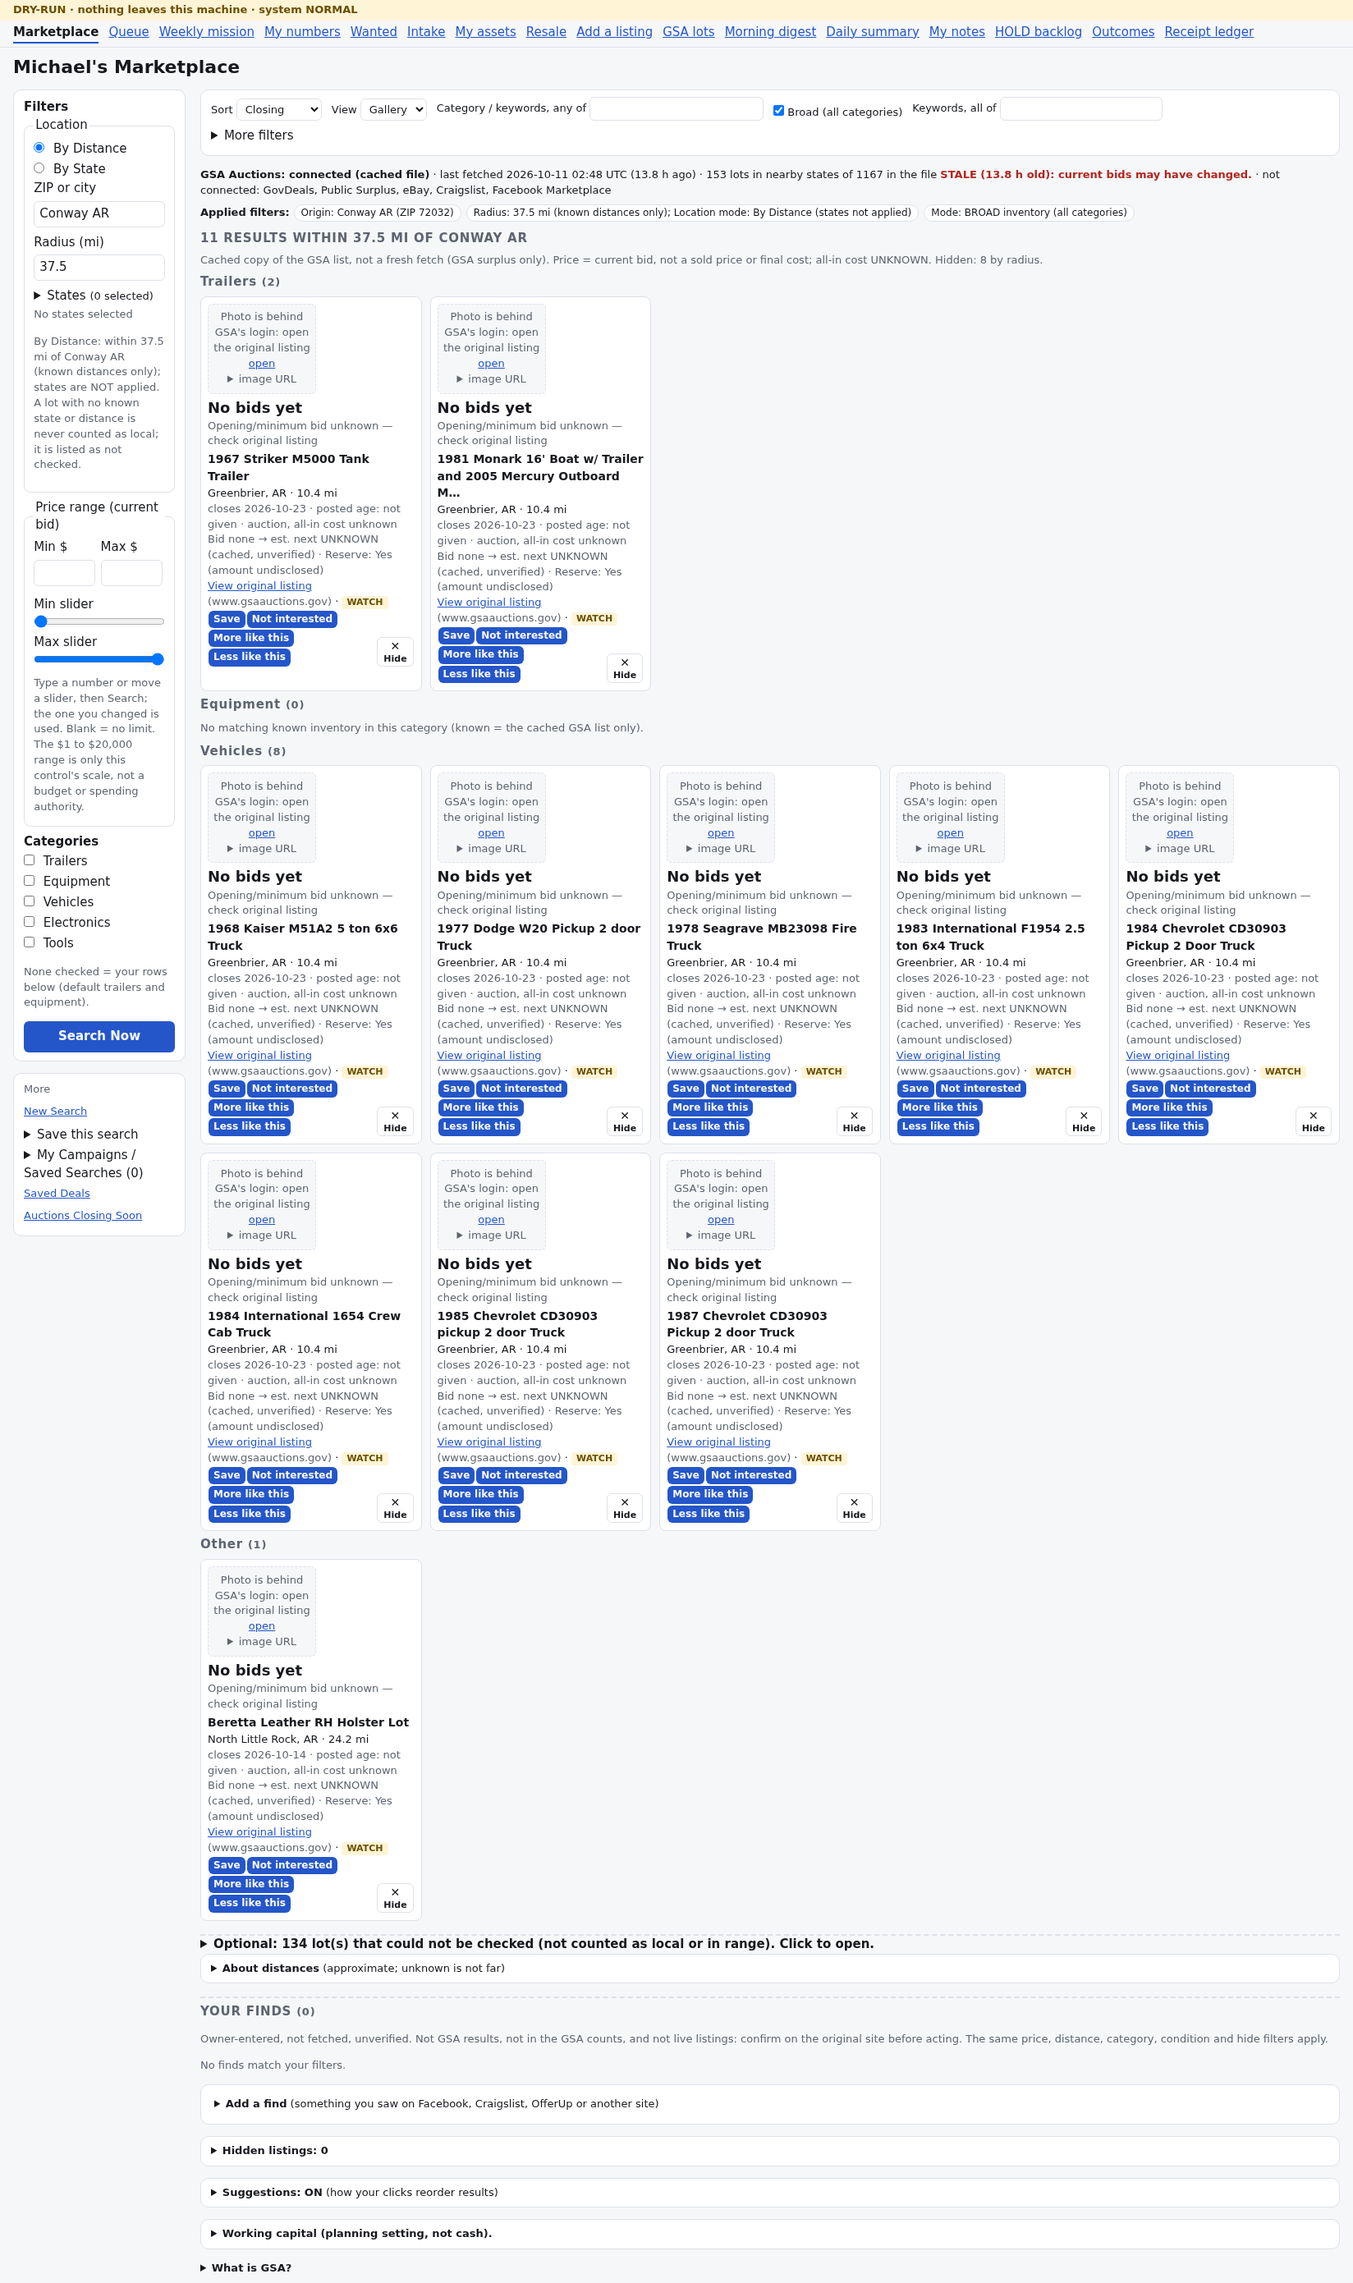
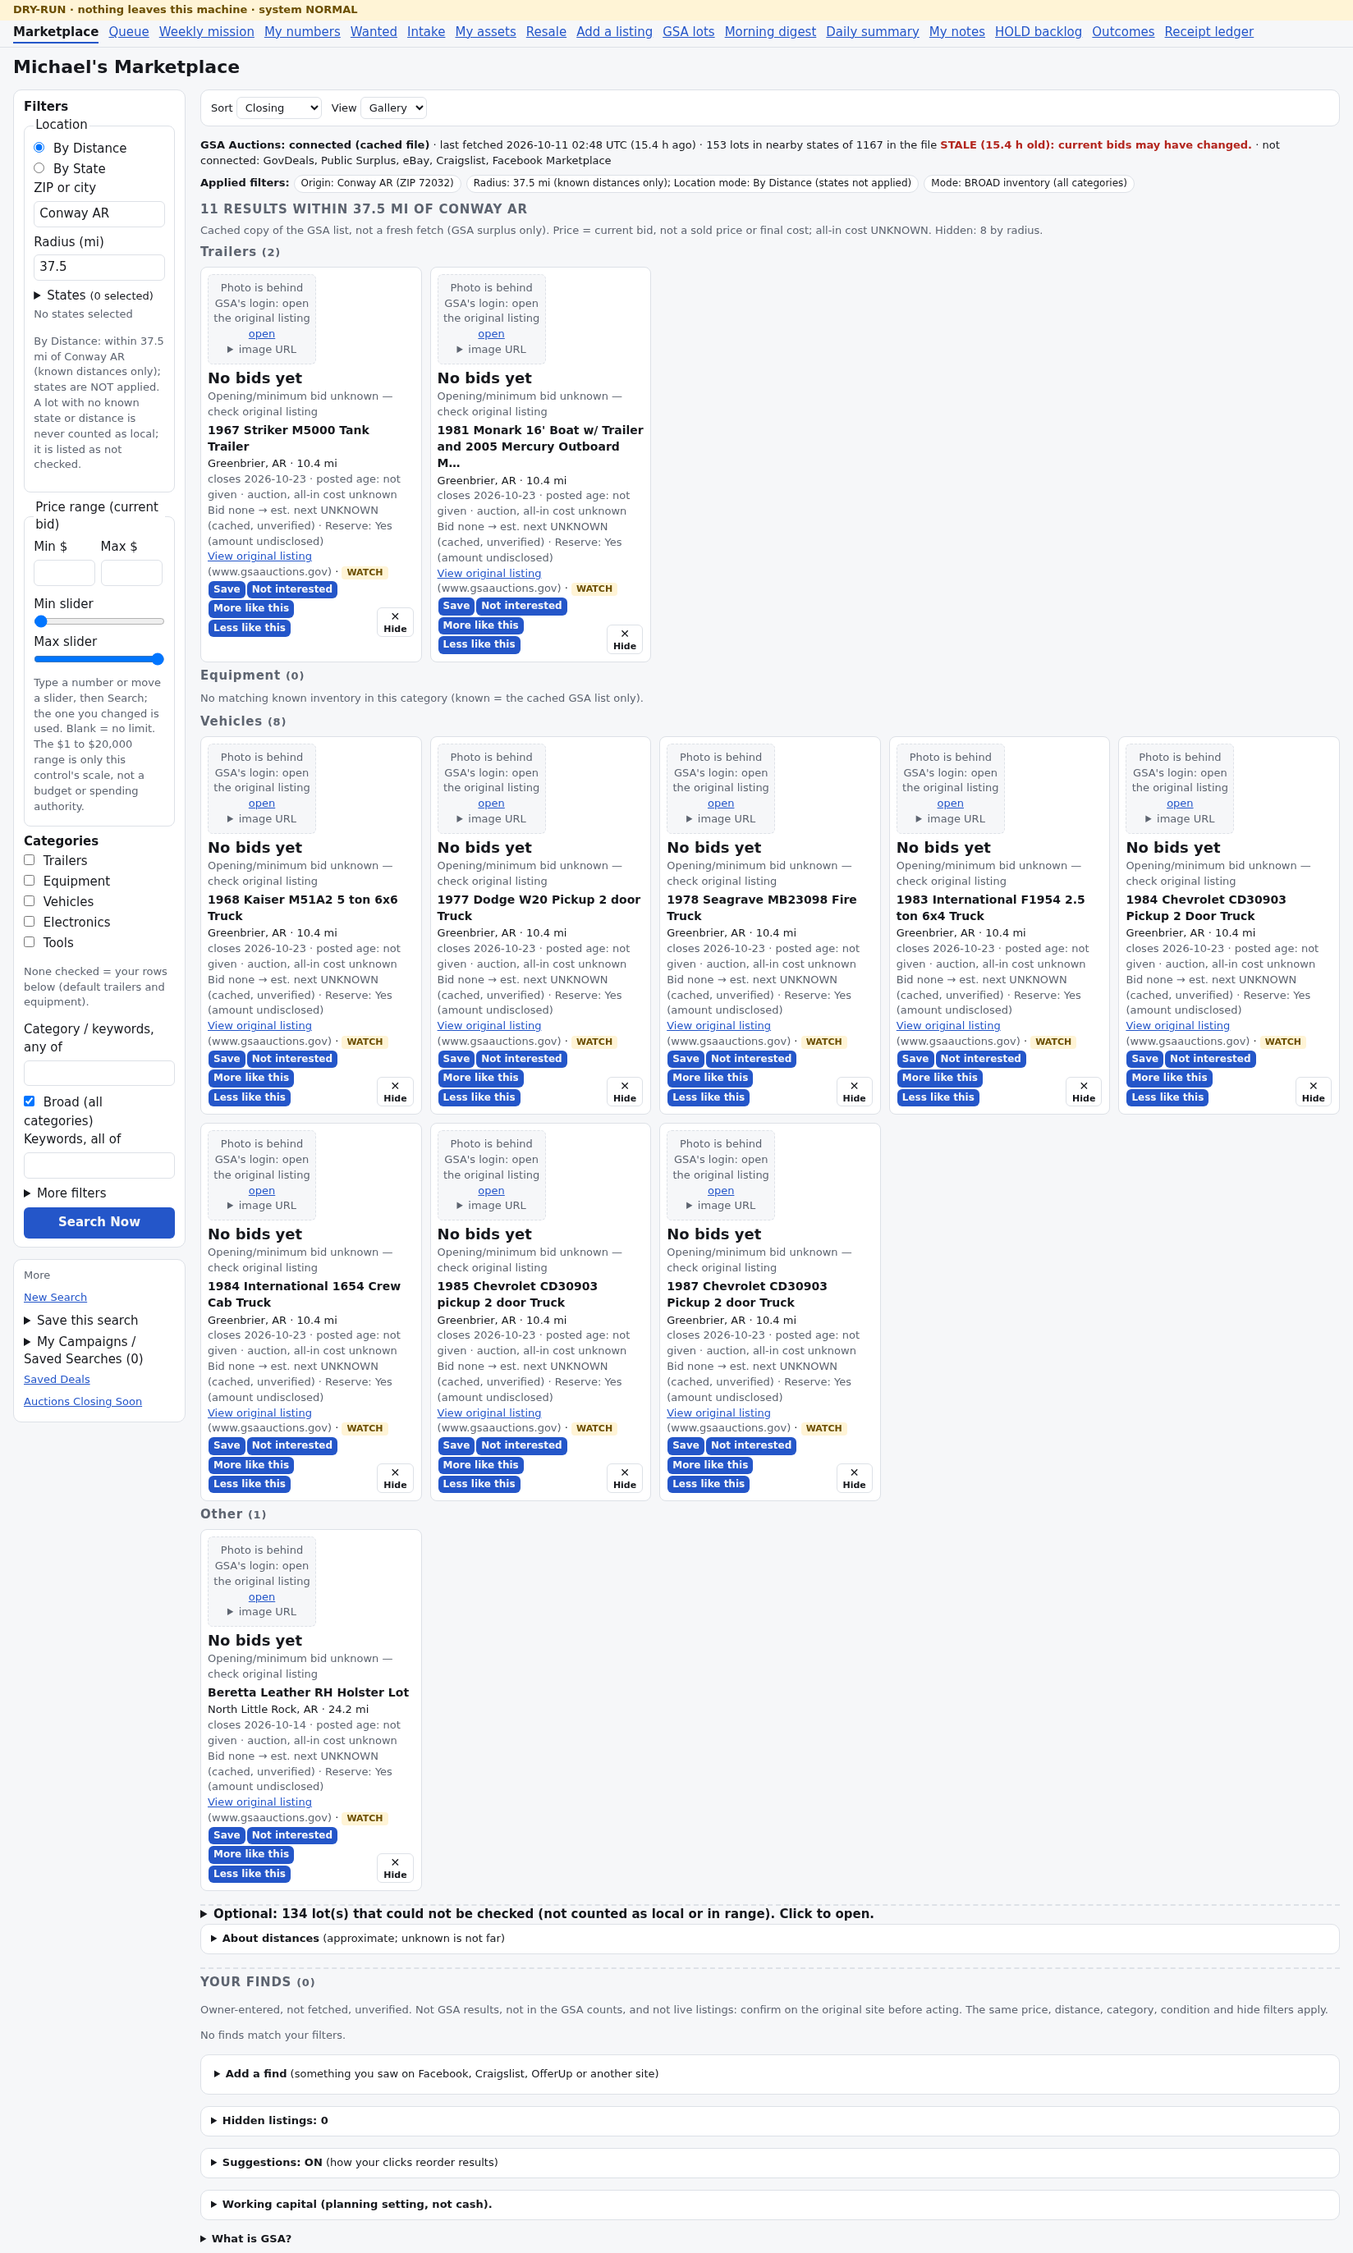
agent 06: F-142 Search Now last after keywords, condition and advanced filters

diff --git a/operator_ui/market_view.py b/operator_ui/market_view.py
@@ -192,6 +192,30 @@ def location_panel(q: dict) -> str:
             f"<p class='small mut' id='location-scope'>{e(scope_text(q))}. A lot with no known state or distance is never counted as local; it is listed as not checked.</p></fieldset>")
 
 
+def _sel(name: str, opts, cur) -> str:
+    return f"<select form='mkform' name='{name}'>" + "".join(f"<option value='{e(o)}'{' selected' if str(cur) == o else ''}>{e(lbl)}</option>" for o, lbl in opts) + "</select>"
+
+
+def _more_filters(q: dict) -> str:
+    """F-142: condition, keywords and advanced filters live in the filter card (owned by the real GET form) so Search Now can be last."""
+    v = lambda k: e(", ".join(q[k]) if isinstance(q.get(k), list) else q.get(k) if q.get(k) is not None else "")  # noqa: E731
+    sel = _sel
+    return (f"<label>Category / keywords, any of <input form='mkform' name='any' size='24' value='{v('any')}'></label>"
+            f"<label><input type='checkbox' form='mkform' name='broad' value='1'{' checked' if q.get('broad') else ''}> Broad (all categories)</label>"
+            f"<label>Keywords, all of <input form='mkform' name='keywords' size='22' value='{v('keywords')}'></label>"
+            f"<details id='more-filters'><summary>More filters</summary>"
+            f"<label>Condition (seller text) <input form='mkform' name='condition' size='10' value='{v('condition')}'></label>"
+            f"<label>Must include <input form='mkform' name='required' size='14' value='{v('required')}'></label>"
+            f"<label>Nice to include <input form='mkform' name='preferred' size='14' value='{v('preferred')}'></label>"
+            f"<label>Exclude <input form='mkform' name='exclude' size='14' value='{v('exclude')}'></label>"
+            f"<label>Source {sel('source', [('gsa', 'GSA Auctions')] + [(n.lower(), n + ' (not connected)') for n in ms.NOT_CONNECTED], q.get('source', 'gsa'))}</label>"
+            f"<label>Type {sel('kind', [('any', 'Any'), ('auction', 'Auction'), ('fixed', 'Fixed price')], q.get('kind', 'any'))}</label>"
+            f"<label>Closing by <input type='date' form='mkform' name='closing_by' value='{v('closing_by')}'></label>"
+            f"<p class='small'><b>Gallery rows</b> (top to bottom; leave blank for fewer than 4)</p>"
+            + "".join(f"<label>Row {i} {sel(f'row{i}', [('', '(none)')] + [(k, k.title()) for k in ms.ROW_CATS], (q.get('rows') or ms.DEFAULT_ROWS)[i - 1])}</label>" for i in range(1, 5))
+            + "</details>")
+
+
 def _side_filters(q: dict) -> str:
     """F-52 (B): origin/ZIP, radius, price and category checkboxes live in the narrow left sidebar; they belong to the search form (form='mkform')."""
     v = lambda k: e(q.get(k) if q.get(k) is not None else "")  # noqa: E731
@@ -200,6 +224,7 @@ def _side_filters(q: dict) -> str:
             f"{location_panel(q)}"
             f"{_slider(q, 'mkform')}"
             f"<b>Categories</b>{cats}<p class='small mut'>None checked = your rows below (default trailers and equipment).</p>"
+            f"{_more_filters(q)}"
             "<button class='mk-go' type='submit' form='mkform'>Search Now</button></div>")
 
 
@@ -273,26 +298,12 @@ def _save(q: dict, cid: str | None, tok, pin_html: str) -> str:
 
 
 def _form(q: dict, cid: str | None, tok, pin_html: str) -> str:
-    v = lambda k: e(", ".join(q[k]) if isinstance(q.get(k), list) else q.get(k) if q.get(k) is not None else "")  # noqa: E731
     sel = lambda name, opts, cur: f"<select name='{name}'>" + "".join(  # noqa: E731
         f"<option value='{e(o)}'{' selected' if str(cur) == o else ''}>{e(lbl)}</option>" for o, lbl in opts) + "</select>"
     return ("<div class='card'><form method='get' action='/market' class='mk-form mk-bar' id='mkform' novalidate><input type='hidden' name='go' value='1'>"
             f"<label>Sort {sel('sort', [(s, s.title()) for s in ms.SORTS], q.get('sort', 'closing'))}</label>"
             f"<label>View {sel('view', [('gallery', 'Gallery'), ('list', 'List')], q.get('view', 'gallery'))}</label>"
-            f"<label>Category / keywords, any of <input name='any' size='24' value='{v('any')}'></label>"
-            f"<label><input type='checkbox' name='broad' value='1'{' checked' if q.get('broad') else ''}> Broad (all categories)</label>"
-            f"<label>Keywords, all of <input name='keywords' size='22' value='{v('keywords')}'></label>"
-            f"<details><summary>More filters</summary>"
-            f"<label>Condition (seller text) <input name='condition' size='10' value='{v('condition')}'></label>"
-            f"<label>Must include <input name='required' size='14' value='{v('required')}'></label>"
-            f"<label>Nice to include <input name='preferred' size='14' value='{v('preferred')}'></label>"
-            f"<label>Exclude <input name='exclude' size='14' value='{v('exclude')}'></label>"
-            f"<label>Source {sel('source', [('gsa', 'GSA Auctions')] + [(n.lower(), n + ' (not connected)') for n in ms.NOT_CONNECTED], q.get('source', 'gsa'))}</label>"
-            f"<label>Type {sel('kind', [('any', 'Any'), ('auction', 'Auction'), ('fixed', 'Fixed price')], q.get('kind', 'any'))}</label>"
-            f"<label>Closing by <input type='date' name='closing_by' value='{v('closing_by')}'></label>"
-            f"<p class='small'><b>Gallery rows</b> (top to bottom; leave blank for fewer than 4)</p>"
-            + "".join(f"<label>Row {i} {sel(f'row{i}', [('', '(none)')] + [(k, k.title()) for k in ms.ROW_CATS], (q.get('rows') or ms.DEFAULT_ROWS)[i - 1])}</label>" for i in range(1, 5))
-            + "</details></form></div>")
+            "</form></div>")
 
 
 def working_capital(verified=None) -> str:

diff --git a/tools/f142_search_bottom_shots.py b/tools/f142_search_bottom_shots.py
@@ -24,7 +24,7 @@ httpd = ThreadingHTTPServer(("127.0.0.1", 0), make_handler(app)); threading.Thre
 base = f"http://127.0.0.1:{httpd.server_address[1]}"
 START = "/market?go=1&base=Conway+AR&broad=1&radius=37.5"
 KNOWN = "()=>[...document.querySelectorAll('.mk-g')].filter(c=>!c.closest('#unchecked-section')).map(c=>c.dataset.lot)"
-POS = "()=>{const b=document.querySelector('button.mk-go').getBoundingClientRect(),f=document.querySelector('#mkfilters').getBoundingClientRect();return {button_top:Math.round(b.top+scrollY),button_bottom:Math.round(b.bottom+scrollY),below_all_filter_controls:[...document.querySelectorAll('#mkfilters input,#mkfilters select,#mkfilters summary')].every(i=>{const r=i.getBoundingClientRect();return r.height===0||r.bottom<=b.top+1||i.closest('.st-list')}),below_both_sliders:['min_r','max_r','min_price','max_price'].every(id=>document.getElementById(id).getBoundingClientRect().bottom<=b.top),inside_filter_card:b.top>=f.top&&b.bottom<=f.bottom,filter_card_top:Math.round(f.top+scrollY),viewport_h:innerHeight,button_in_first_viewport:b.top>=0&&b.bottom<=innerHeight}}"
+POS = "()=>{const b=document.querySelector('button.mk-go').getBoundingClientRect(),f=document.querySelector('#mkfilters').getBoundingClientRect();return {button_top:Math.round(b.top+scrollY),button_bottom:Math.round(b.bottom+scrollY),below_all_filter_controls:[...document.querySelectorAll('#mkfilters input,#mkfilters select,#mkfilters summary')].every(i=>{const r=i.getBoundingClientRect();return r.height===0||(i.tagName!=='SUMMARY'&&i.closest('details:not([open])'))||r.bottom<=b.top+1||i.closest('.st-list')}),below_both_sliders:['min_r','max_r','min_price','max_price'].every(id=>document.getElementById(id).getBoundingClientRect().bottom<=b.top),inside_filter_card:b.top>=f.top&&b.bottom<=f.bottom,filter_card_top:Math.round(f.top+scrollY),viewport_h:innerHeight,button_in_first_viewport:b.top>=0&&b.bottom<=innerHeight}}"
 log = []
 with sync_playwright() as p:
     br = p.chromium.launch(channel="chrome", headless=True)

diff --git a/tests/test_market_f60.py b/tests/test_market_f60.py
@@ -84,3 +84,13 @@ def test_f142_search_now_is_last_control_below_both_price_sliders(ui):
     for needle in ("name='min_price'", "name='max_price'", "name='min_r'", "name='max_r'", "name='cat'", "name='base'", "name='radius'", "name='also_radius'"):
         assert card.rindex(needle) < pos, needle
     assert card.rstrip().endswith("Search Now</button></div>") and card.count("<button") == 1
+
+
+def test_f142_search_now_is_last_after_every_filter_control(ui):
+    card = _card(get(ui))
+    pos = lambda s: card.index(s)  # noqa: E731
+    order = ["Origin", "name='min_price'", "name='max_price'", "name='cat'", "name='keywords'", "More filters", "name='condition'", "name='closing_by'", "Search Now"]
+    idx = [pos(t) for t in order if t in card]
+    assert len(idx) >= 8 and idx == sorted(idx)
+    assert card.rindex("name='") < pos("Search Now") and "<form" not in card
+    assert card.count("form='mkform'") >= 10

diff --git a/tests/test_market_f56.py b/tests/test_market_f56.py
@@ -33,7 +33,7 @@ class _Forms(HTMLParser):
 
 def _row(h, i):
     import re
-    m = re.search(rf"<select name='row{i}'>(.*?)</select>", h)
+    m = re.search(rf"<select form='mkform' name='row{i}'>(.*?)</select>", h)
     return re.search(r"<option value='([^']*)' selected>", m.group(1)).group(1)
 
 

diff --git a/docs/status/AGENT_STATUS.md b/docs/status/AGENT_STATUS.md
@@ -6,7 +6,7 @@ Branch: research/agent-06-communications
 Worktree: /home/michaelos/business-os-worktrees/agent-06-communications
 State: CLOSED
 Claimed: none
-Done: F-142 @ 410d7ca (Search Now moved below both price sliders and all filters in the /market filter card; same real GET form; f60 4 passed; ref 460 passed; lane D+E 105/2 known F-32; :8766 live = NEED owner-gated reload; receipt 2026-10-11-supervisor-owner-takeover-and-search-bottom-reconciliation.md), F-141 @ 471be60 (owner-entered finds on /market: var/market_finds.json, Add a find form, Your finds section, same strict filters, hide/save by id, soft delete+undo, zero network; f141 13 passed; ref 457 passed / 1 known fail resale_f39; lane D+E 105/2 known F-32; receipt 2026-10-11-f141-owner-entered-finds.md), A-62 @ cc16e62 (no-bid card: opening/minimum bid unknown + original link, sourced minimum with provenance only; a62 4 passed; ref 445 passed/1 known fail resale_f39; lane D+E 105/2 known F-32; receipt 2026-10-10-a62-opening-bid-unknown.md), F-140 @ 29fbf0e (precedent store path: MBOS_DECISION_CASES_DIR, then MBOS_COORDINATOR_ROOT or live layout, then mbos default; f140 5 passed; ref 441 passed / 1 known fail resale_f39; lane D+E 105 passed / 2 failed inputs_f32 KeyError value, unrelated to this change), F-139 @ 128f6c8 (read-only owner decision-case block on /market cards from the local store; f139 8 passed; ref 435+1 fixed allowlist = 436 passed / 1 known fail resale_f39; lane D+E 104 passed / 3 failed = 2 known F-32 + f25 order flake that passes alone 9/9; receipt 2026-10-11-f139-precedent-block.md); A-60 @ a9be4e4 (hide X by stable ID, hidden list + per-item undo; a60 9 passed; ref 428 passed/1 known fail; lane D+E 105/2 known F-32; receipt 2026-10-10-a60-hide-listing.md); F-136 @ 48d27b9 (+carried F-61 obligations @ d537b27 via F-137; evidence @ 22bb3ab via F-138; re-dispatch re-verified, f61+f136+f137 33 passed); F-61 @ e54e27a (re-verified: f61+f136+f137 33 passed; clarifications carried by F-136/F-137, no reopen); F-138 @ 22bb3ab
+Done: F-142 @ PENDING (Search Now last after location, price, categories, keywords, condition, advanced; f60 5 passed; f56 3 passed; ref 459/2 before f56 fix = 460 passed expected + known resale_f39; lane D+E 105/2 known F-32; :8766 reload NEED owner-gated), F-142 first pass @ 410d7ca (Search Now moved below both price sliders and all filters in the /market filter card; same real GET form; f60 4 passed; ref 460 passed; lane D+E 105/2 known F-32; :8766 live = NEED owner-gated reload; receipt 2026-10-11-supervisor-owner-takeover-and-search-bottom-reconciliation.md), F-141 @ 471be60 (owner-entered finds on /market: var/market_finds.json, Add a find form, Your finds section, same strict filters, hide/save by id, soft delete+undo, zero network; f141 13 passed; ref 457 passed / 1 known fail resale_f39; lane D+E 105/2 known F-32; receipt 2026-10-11-f141-owner-entered-finds.md), A-62 @ cc16e62 (no-bid card: opening/minimum bid unknown + original link, sourced minimum with provenance only; a62 4 passed; ref 445 passed/1 known fail resale_f39; lane D+E 105/2 known F-32; receipt 2026-10-10-a62-opening-bid-unknown.md), F-140 @ 29fbf0e (precedent store path: MBOS_DECISION_CASES_DIR, then MBOS_COORDINATOR_ROOT or live layout, then mbos default; f140 5 passed; ref 441 passed / 1 known fail resale_f39; lane D+E 105 passed / 2 failed inputs_f32 KeyError value, unrelated to this change), F-139 @ 128f6c8 (read-only owner decision-case block on /market cards from the local store; f139 8 passed; ref 435+1 fixed allowlist = 436 passed / 1 known fail resale_f39; lane D+E 104 passed / 3 failed = 2 known F-32 + f25 order flake that passes alone 9/9; receipt 2026-10-11-f139-precedent-block.md); A-60 @ a9be4e4 (hide X by stable ID, hidden list + per-item undo; a60 9 passed; ref 428 passed/1 known fail; lane D+E 105/2 known F-32; receipt 2026-10-10-a60-hide-listing.md); F-136 @ 48d27b9 (+carried F-61 obligations @ d537b27 via F-137; evidence @ 22bb3ab via F-138; re-dispatch re-verified, f61+f136+f137 33 passed); F-61 @ e54e27a (re-verified: f61+f136+f137 33 passed; clarifications carried by F-136/F-137, no reopen); F-138 @ 22bb3ab
 Blocked: F-31 (F-106 form only) on a lane A/C task: nothing feeds a stored human scope override into the engine bundle (see receipt); B-22 also still READY
 Started: 2026-10-06 (Round One) · 2026-10-07 (Round Two)
 Last updated: 2026-10-11 (F-142 done)

diff --git a/docs/receipts/2026-10-11-supervisor-owner-takeover-and-search-bottom-reconciliation.md b/docs/receipts/2026-10-11-supervisor-owner-takeover-and-search-bottom-reconciliation.md
@@ -12,3 +12,10 @@ Provenance: owner screenshot showed `Search Now` above Min/Max; F-60 (`63d741d`)
 
 ## :8766 live verification: NEED
 No already-authorized release gate for a :8766 reload exists in the queue for this task, and live probing was not done. NEED: owner/Agent 01 authorizes the one consolidated reload of :8766 at this commit; then record artifact hash, `/health`, cache sha256 and a fresh screenshot. Not claimed live.
+
+## F-142 correction (re-dispatch, same row): Search Now is now last across ALL filter controls
+Provenance: the first F-142 pass (`410d7ca`) only moved the button below the sliders and categories inside the sidebar card; keywords, Broad, condition and the advanced "More filters" still lived in the separate search bar after it, so the button was not last.
+- `operator_ui/market_view.py`: new `_more_filters`/`_sel` render keywords (any/all), Broad, and the "More filters" details (condition, must/nice/exclude, source, type, closing-by, gallery rows) inside `#mkfilters`, every control tied to the real GET form with `form='mkform'`; `Search Now` is the final element of the card. The bar form keeps only Sort/View. List values still join with ", " (a first attempt rendered `[]` and zeroed results; caught by the existing browser test). Module now 383 lines.
+- Tests: `tests/test_market_f60.py` +1 order test (location, min/max, categories, keywords, More filters, condition, closing-by, Search Now); f56 selector updated for the `form` attribute. f60 5 passed. Real Chrome click + Enter, desktop 1648x1000 and mobile 390x844: Min 5 / Max 25 changed results 11 -> 0 (and f60 test 6 -> 4 with Max 25); `below_all_filter_controls`, `below_both_sliders`, `inside_filter_card` all true. Fresh screenshots in `docs/receipts/f142-search-bottom-screenshots/`.
+- Full health: reference 459 passed / 2 failed before the f56 selector fix (f56 + known resale_f39 timeout); f56 now 3 passed; lane D+E 105 passed / 2 failed (known F-32).
+- NEED: live `:8766` shows this only after the owner-gated reload; not performed (DRY-RUN, no deploy).
